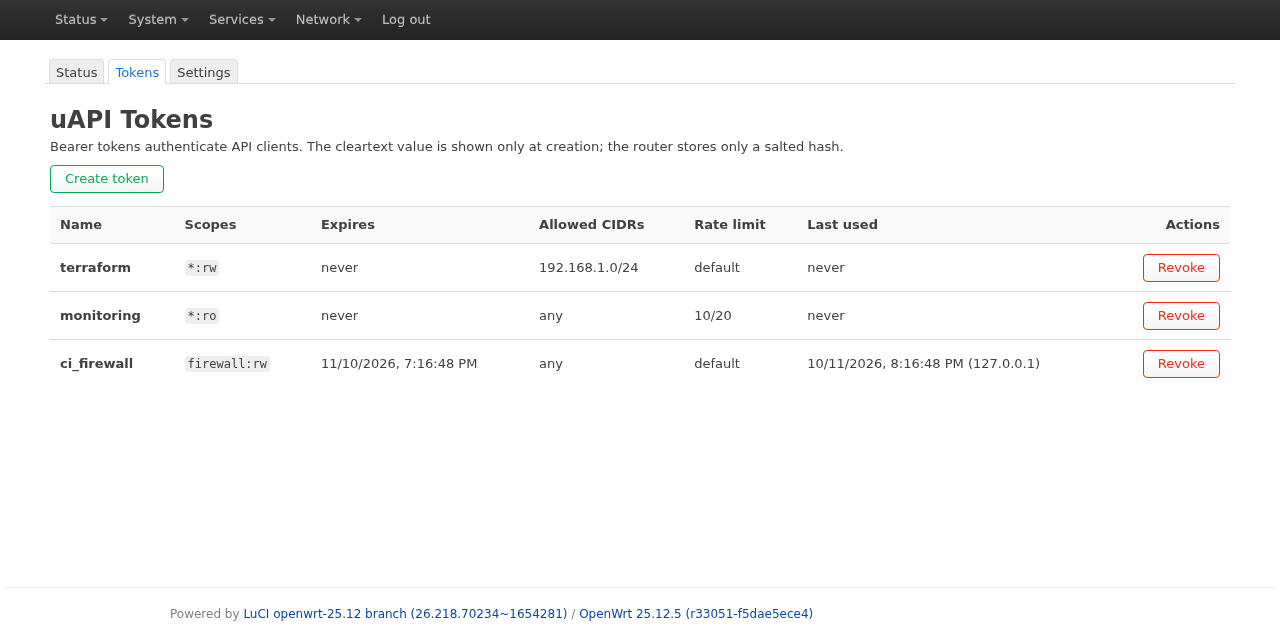
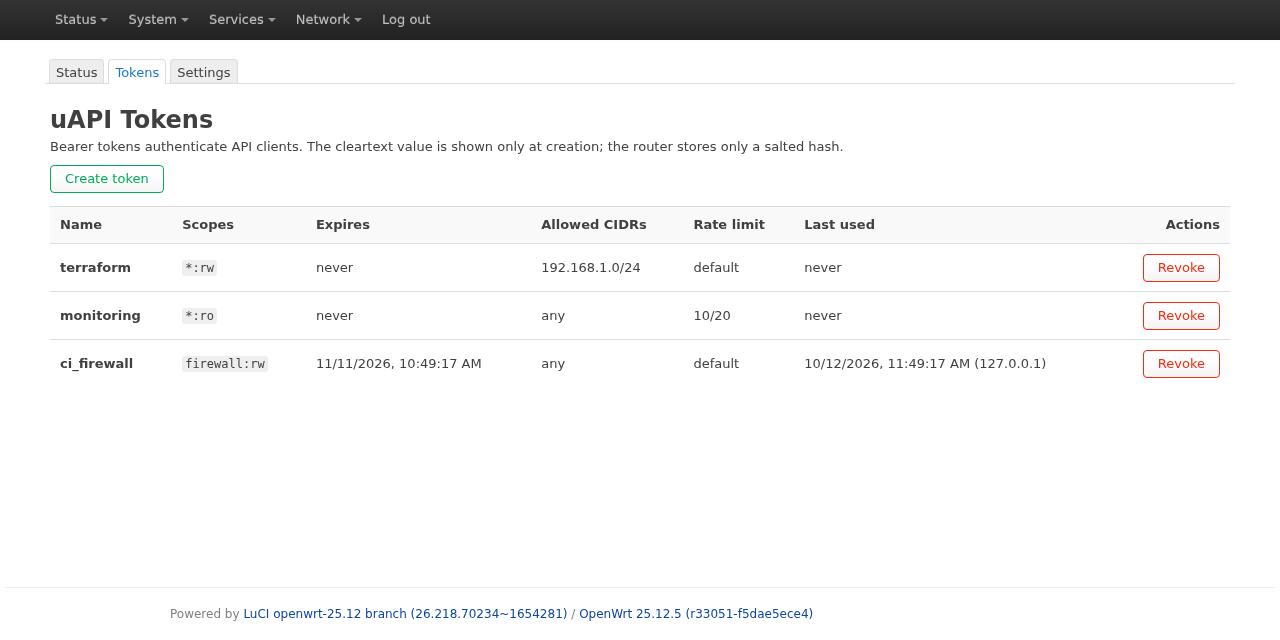
fix: sentences split around a name could not be translated, and the badges ignored the theme

diff --git a/htdocs/luci-static/resources/view/uapi/tokens.js b/htdocs/luci-static/resources/view/uapi/tokens.js
@@ -40,11 +40,7 @@ return view.extend({
 	revoke: function (name) {
 		const self = this;
 		ui.showModal(_('Revoke token'), [
-			E('p', {}, [
-				_('Permanently revoke token '),
-				E('strong', {}, [ name ]),
-				_('? Any client using it will be denied immediately.')
-			]),
+			E('p', {}, _('Permanently revoke token <strong>%h</strong>? Any client using it will be denied immediately.').format(name)),
 			E('div', { 'class': 'right' }, [
 				E('button', {
 					'class': 'btn',
@@ -68,11 +64,7 @@ return view.extend({
 
 	showBearer: function (name, bearer) {
 		ui.showModal(_('Token created'), [
-			E('p', {}, [
-				_('Token '),
-				E('strong', {}, [ name ]),
-				_(' was created. Copy the bearer value now: it is shown only once and cannot be retrieved again.')
-			]),
+			E('p', {}, _('Token <strong>%h</strong> was created. Copy the bearer value now: it is shown only once and cannot be retrieved again.').format(name)),
 			E('div', { 'class': 'cbi-section' }, [
 				E('textarea', {
 					'readonly': 'readonly',
@@ -242,7 +234,7 @@ return view.extend({
 							self.showBearer(res.name, res.bearer);
 							self.refresh();
 						}).catch(function (e) {
-							ui.addNotification(null, E('p', {}, [ _('Token creation failed: ') + e ]), 'error');
+							ui.addNotification(null, E('p', {}, [ _('Token creation failed: %s').format(e) ]), 'error');
 						});
 					})
 				}, [ _('Create') ])
@@ -301,7 +293,7 @@ return view.extend({
 			if (container)
 				dom.content(container, self.renderTable((res || {}).tokens));
 		}).catch(function (e) {
-			ui.addNotification(null, E('p', {}, [ _('Failed to load tokens: ') + e ]), 'error');
+			ui.addNotification(null, E('p', {}, [ _('Failed to load tokens: %s').format(e) ]), 'error');
 		});
 	},
 

diff --git a/htdocs/luci-static/resources/uapi/helpers.js b/htdocs/luci-static/resources/uapi/helpers.js
@@ -8,18 +8,11 @@ return baseclass.extend({
 	},
 
 	badge: function (ok, yes, no) {
-		return E('span', {
-			'class': 'label',
-			'style': 'background-color:%s;color:#fff;padding:2px 8px;border-radius:3px'
-				.format(ok ? '#5bb75b' : '#999')
-		}, [ ok ? (yes || _('Yes')) : (no || _('No')) ]);
+		return E('span', { 'class': ok ? 'label success' : 'label' }, [ ok ? (yes || _('Yes')) : (no || _('No')) ]);
 	},
 
 	warnBadge: function (text) {
-		return E('span', {
-			'class': 'label',
-			'style': 'background-color:#da4f49;color:#fff;padding:2px 8px;border-radius:3px'
-		}, [ text ]);
+		return E('span', { 'class': 'label warning' }, [ text ]);
 	},
 
 	row: function (label, value) {

diff --git a/htdocs/luci-static/resources/view/uapi/status.js b/htdocs/luci-static/resources/view/uapi/status.js
@@ -95,7 +95,7 @@ return view.extend({
 				self.renderSecurity(st)
 			]);
 		}).catch(function (e) {
-			ui.addNotification(null, E('p', {}, [ _('Failed to load status: ') + e ]), 'error');
+			ui.addNotification(null, E('p', {}, [ _('Failed to load status: %s').format(e) ]), 'error');
 		});
 	},
 

diff --git a/CHANGELOG.md b/CHANGELOG.md
@@ -9,6 +9,16 @@ never because uapi was bumped. See README "Versioning".
 
 ## [Unreleased]
 
+### Fixed
+
+- Sentences that wrapped a token name or an error are now one translatable string
+  with a placeholder, so a translation can put the name or the error where its
+  language needs it. Before, translators got fragments such as `? Any client using
+  it will be denied immediately.`, and the template lost their edge spaces.
+- Status badges use the theme's `label success` and `label warning` classes
+  instead of fixed inline colors, so they follow the active theme and its dark
+  mode. `label warning` is styled by all four themes that ship with LuCI.
+
 ## [1.1.1]
 
 Compatible with uapi 2.x and 3.x. No change to the app itself.
